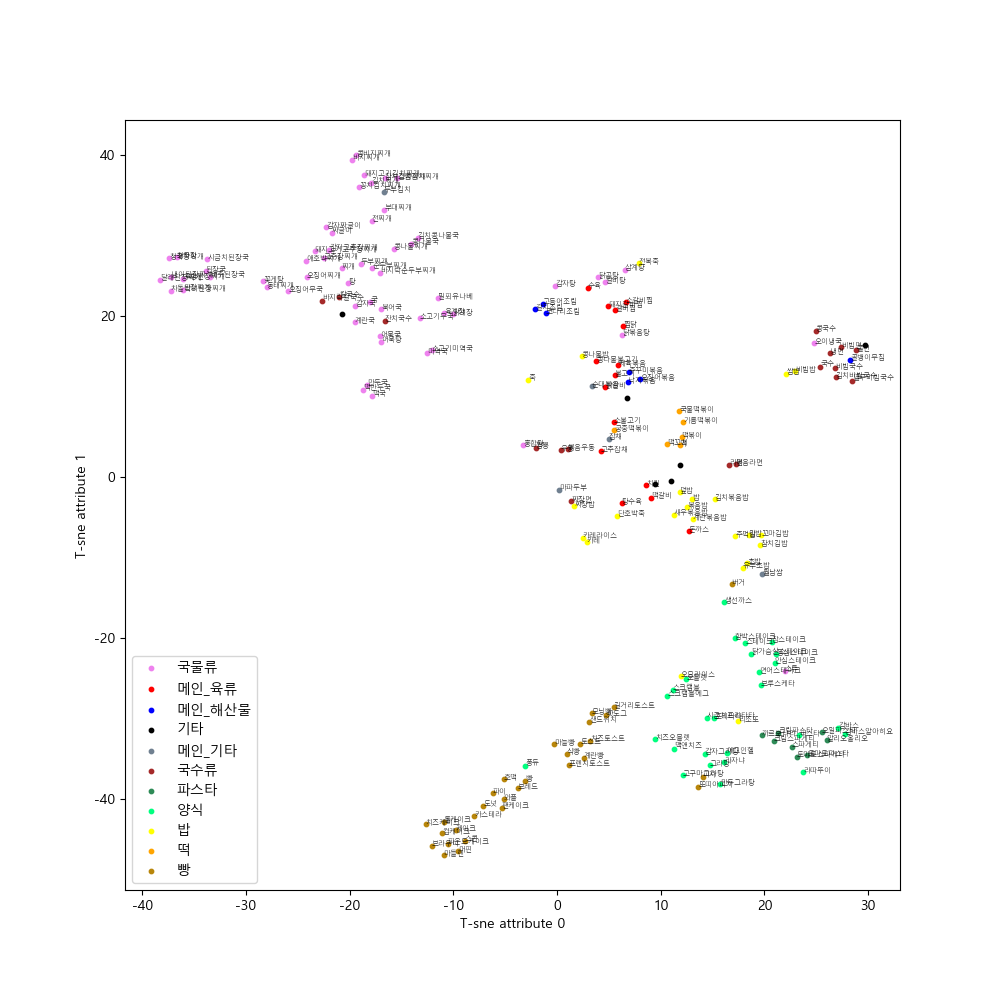
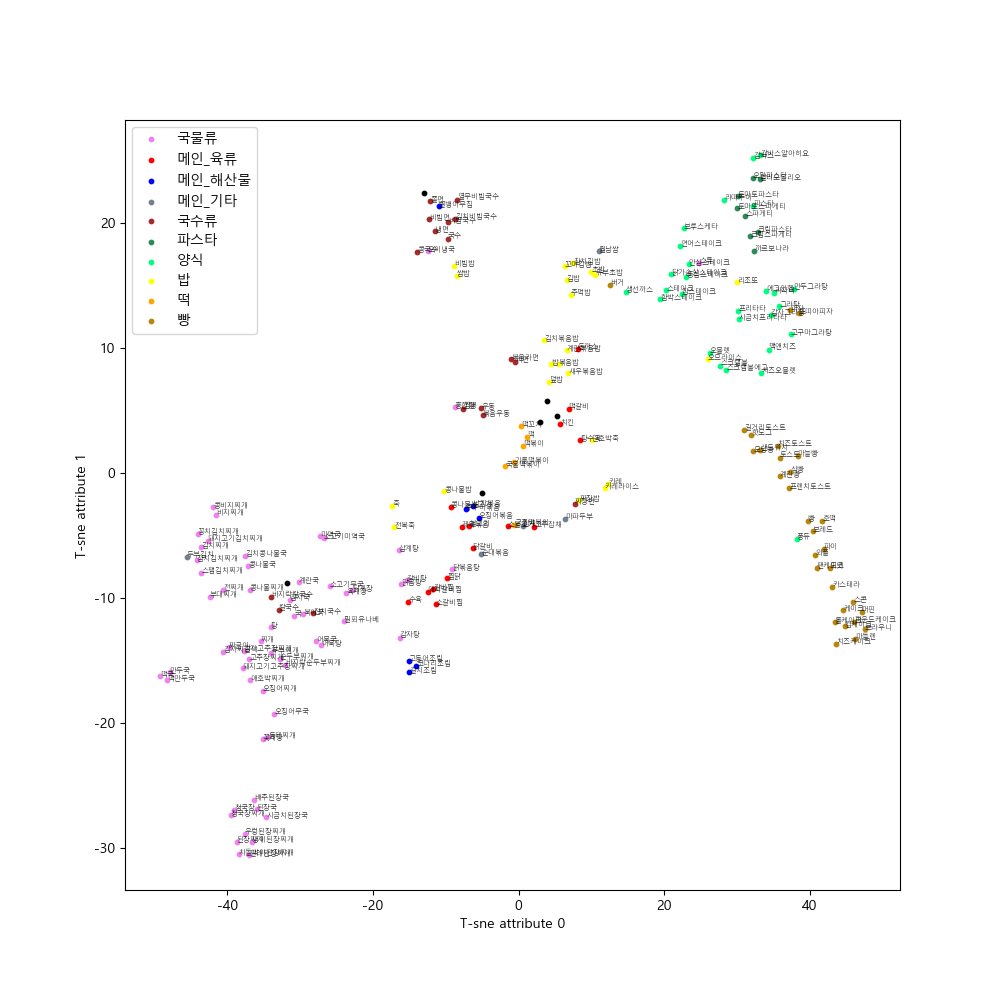
Update tsne images

diff --git a/vec_visualize.py b/vec_visualize.py
@@ -125,8 +125,8 @@ for food in menu2vec.index_to_key:
     Label_flag[X_set[9]] = 0
   else:
     C.append('black')
-    Label.append('기타')
-    Label_flag['기타'] = 0
+    Label.append('')
+    Label_flag[''] = 0
 tsne = TSNE(n_components=2, perplexity=10)
 X_tsne = tsne.fit_transform(X)  # tsne로 차원 축소
 df = pd.DataFrame(X_tsne, index=vocab, columns=['x', 'y'])
@@ -174,8 +174,8 @@ for food in vocab:
     Label_flag[Y_set[3]] = 0
   else:
     C.append('black')
-    Label.append('기타')
-    Label_flag['기타'] = 0
+    Label.append('')
+    Label_flag[''] = 1
 
 show_tsne(df, 'menu2vec_tsne_origin.png')
 
